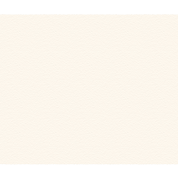
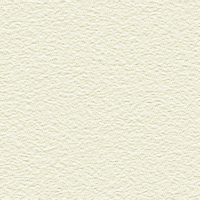
New background asset and getting rid of background cover

diff --git a/mainsite/mainsite/static/css/base.css b/mainsite/mainsite/static/css/base.css
@@ -1,9 +1,5 @@
 html {
     background-image: url('../img/background.png');
-    -webkit-background-size: cover; /* For WebKit*/
-    -moz-background-size: cover;    /* Mozilla*/
-    -o-background-size: cover;      /* Opera*/
-    background-size: cover;
     height: 100%;
     overflow: hidden;
 }
